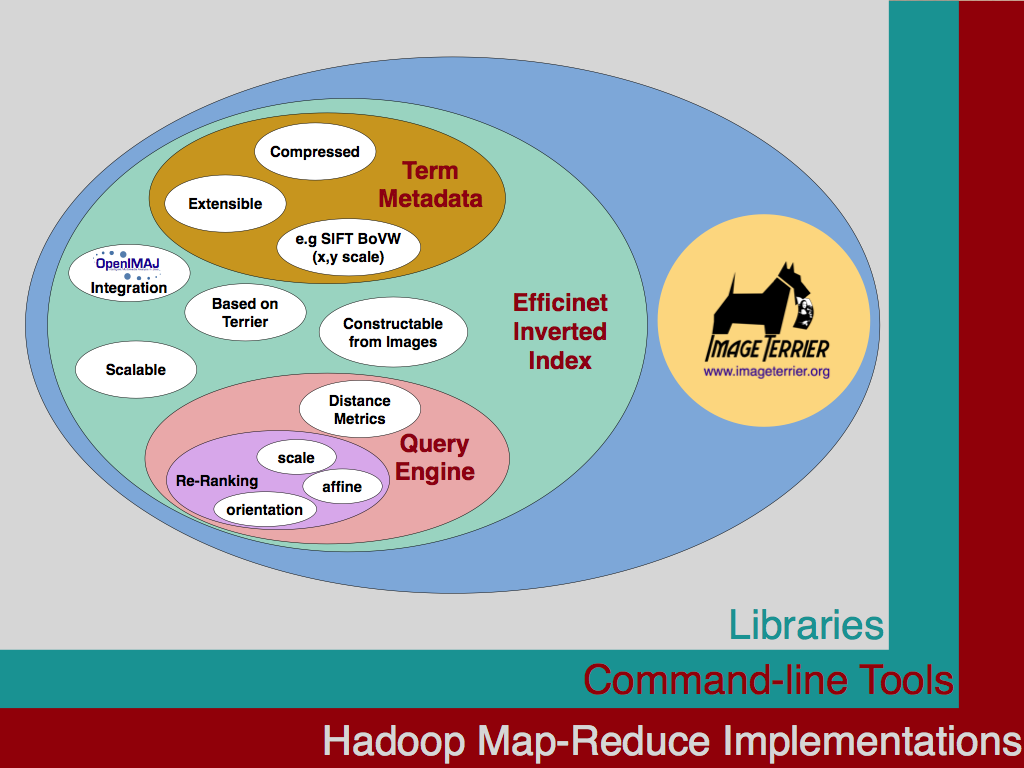
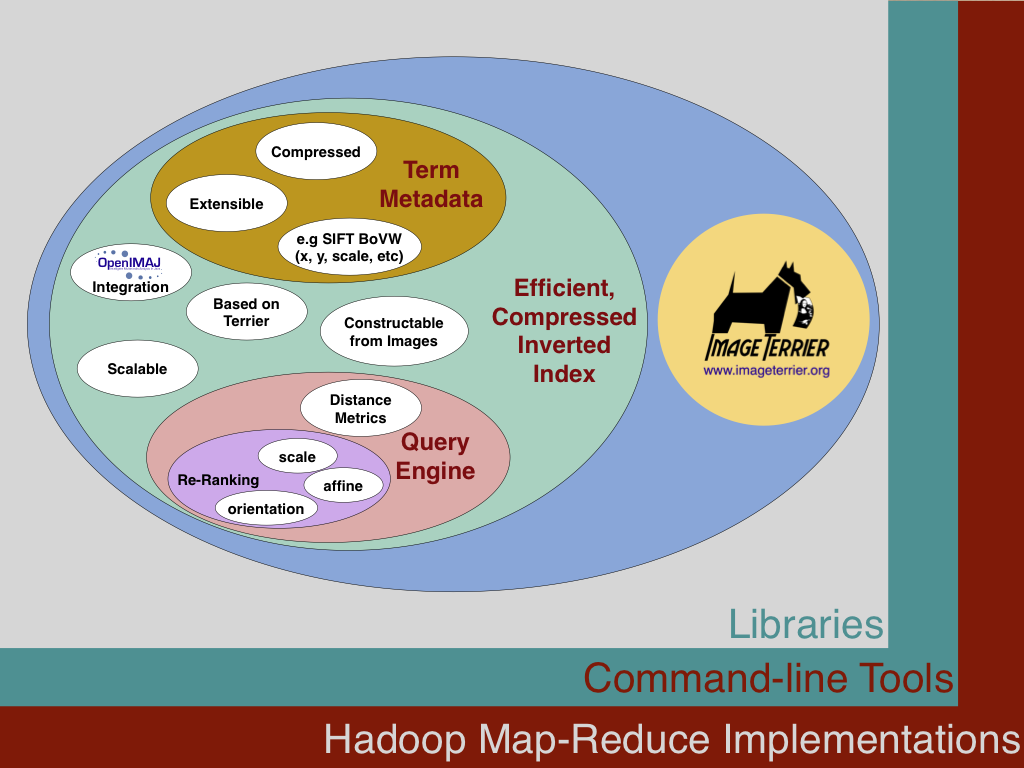
fixed some slides. added camera selector to select the correct camera for the demos

diff --git a/demos/demos/src/main/java/org/openimaj/demos/video/VideoSIFT.java b/demos/demos/src/main/java/org/openimaj/demos/video/VideoSIFT.java
@@ -62,7 +62,6 @@ import org.openimaj.image.renderer.MBFImageRenderer;
 import org.openimaj.math.geometry.point.Point2d;
 import org.openimaj.math.geometry.shape.Polygon;
 import org.openimaj.math.geometry.shape.Rectangle;
-import org.openimaj.math.geometry.shape.Shape;
 import org.openimaj.math.geometry.transforms.HomographyModel;
 import org.openimaj.math.geometry.transforms.MatrixTransformProvider;
 import org.openimaj.math.geometry.transforms.TransformUtilities;
@@ -155,9 +154,13 @@ public class VideoSIFT implements KeyListener, VideoDisplayListener<MBFImage> {
 	private RenderMode renderMode = RenderMode.SQUARE;
 
 	public VideoSIFT(JComponent window) throws Exception {
-		int width = 320;
-		int height = 240;
-		capture = new VideoCapture(width, height);
+		this(window, new VideoCapture(320, 240));
+	}
+	
+	public VideoSIFT(JComponent window, VideoCapture capture) throws Exception {
+		int width = capture.getWidth();
+		int height = capture.getHeight();
+		this.capture = capture; 
 		polygonListener = new PolygonDrawingListener();
 
 		GridBagConstraints gbc;

diff --git a/demos/ACMMM-Presentation/src/main/java/org/openimaj/demos/acmmm11/presentation/slides/TutorialSlide.java b/demos/ACMMM-Presentation/src/main/java/org/openimaj/demos/acmmm11/presentation/slides/TutorialSlide.java
@@ -15,6 +15,7 @@ import org.openimaj.demos.acmmm11.presentation.slides.tutorial.SIFTFeatureTutori
 import org.openimaj.demos.acmmm11.presentation.slides.tutorial.SegmentationTutorial;
 import org.openimaj.demos.acmmm11.presentation.slides.tutorial.ShapeRenderingTutorial;
 import org.openimaj.demos.acmmm11.presentation.slides.tutorial.TutorialPanel;
+import org.openimaj.demos.utils.slideshowframework.CameraSelector;
 import org.openimaj.demos.utils.slideshowframework.Slide;
 import org.openimaj.image.MBFImage;
 import org.openimaj.video.VideoDisplay;
@@ -39,7 +40,7 @@ public class TutorialSlide implements Slide {
 		int videoWidth = 320;
 		int videoHeight = 240;
 		
-		capture = new VideoCapture(videoWidth, videoHeight);
+		capture = CameraSelector.getPreferredVideoCapture(videoWidth, videoHeight);
 		displays = new ArrayList<VideoDisplay<MBFImage>>();
 		
 		TutorialPanel[] tutorials = new TutorialPanel[] {

diff --git a/demos/ACMMM-Presentation/src/main/java/org/openimaj/demos/utils/slideshowframework/CameraSelector.java b/demos/ACMMM-Presentation/src/main/java/org/openimaj/demos/utils/slideshowframework/CameraSelector.java
@@ -1,0 +1,28 @@
+package org.openimaj.demos.utils.slideshowframework;
+
+import java.io.IOException;
+import java.util.List;
+
+import org.openimaj.video.capture.Device;
+import org.openimaj.video.capture.VideoCapture;
+
+public class CameraSelector {
+	public static Device getPreferredVideoCaptureDevice() throws IOException {
+		List<Device> devices = VideoCapture.getVideoDevices();
+		
+		for (Device d : devices) {
+			if (d.getNameStr().contains("Logitech Camera")) { 
+				return d;
+			}
+		}
+		
+		if (devices.size() > 0)
+			return devices.get(0);
+		
+		return null;
+	}
+	
+	public static VideoCapture getPreferredVideoCapture(int width, int height) throws IOException {
+		return new VideoCapture(width, height, getPreferredVideoCaptureDevice());
+	}
+}

diff --git a/demos/ACMMM-Presentation/src/main/java/org/openimaj/demos/utils/slideshowframework/MovingPictureSlide.java b/demos/ACMMM-Presentation/src/main/java/org/openimaj/demos/utils/slideshowframework/MovingPictureSlide.java
@@ -1,4 +1,4 @@
-package org.openimaj.demos.acmmm11.presentation;
+package org.openimaj.demos.utils.slideshowframework;
 
 import java.awt.Component;
 import java.awt.Dimension;
@@ -9,8 +9,6 @@ import java.net.URL;
 import javax.imageio.ImageIO;
 import javax.swing.JPanel;
 
-import org.openimaj.demos.utils.slideshowframework.PictureSlide;
-import org.openimaj.demos.utils.slideshowframework.Slide;
 import org.openimaj.image.DisplayUtilities.ImageComponent;
 
 public class MovingPictureSlide extends PictureSlide implements Slide, Runnable {

diff --git a/demos/ACMMM-Presentation/src/main/java/org/openimaj/demos/acmmm11/presentation/slides/tutorial/FaceKETrackingTutorial.java b/demos/ACMMM-Presentation/src/main/java/org/openimaj/demos/acmmm11/presentation/slides/tutorial/FaceKETrackingTutorial.java
@@ -6,7 +6,6 @@ import java.util.List;
 import org.openimaj.image.FImage;
 import org.openimaj.image.MBFImage;
 import org.openimaj.image.colour.RGBColour;
-import org.openimaj.image.processing.face.detection.DetectedFace;
 import org.openimaj.image.processing.face.detection.FaceDetector;
 import org.openimaj.image.processing.face.detection.HaarCascadeDetector;
 import org.openimaj.image.processing.face.keypoints.FKEFaceDetector;
